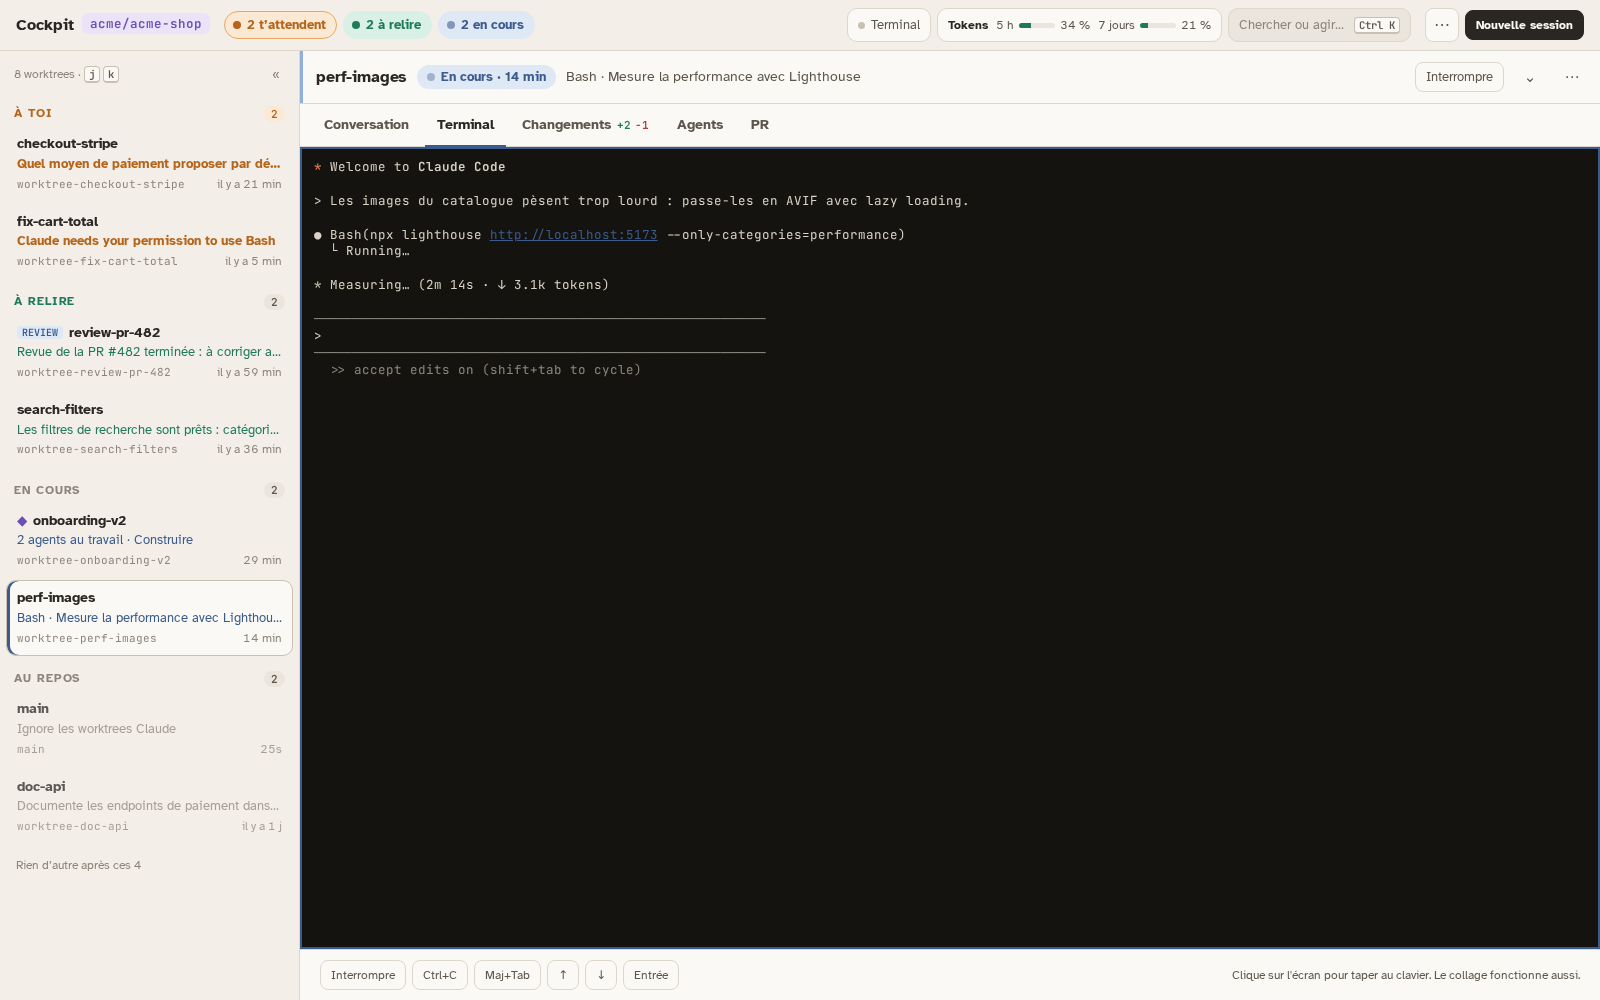
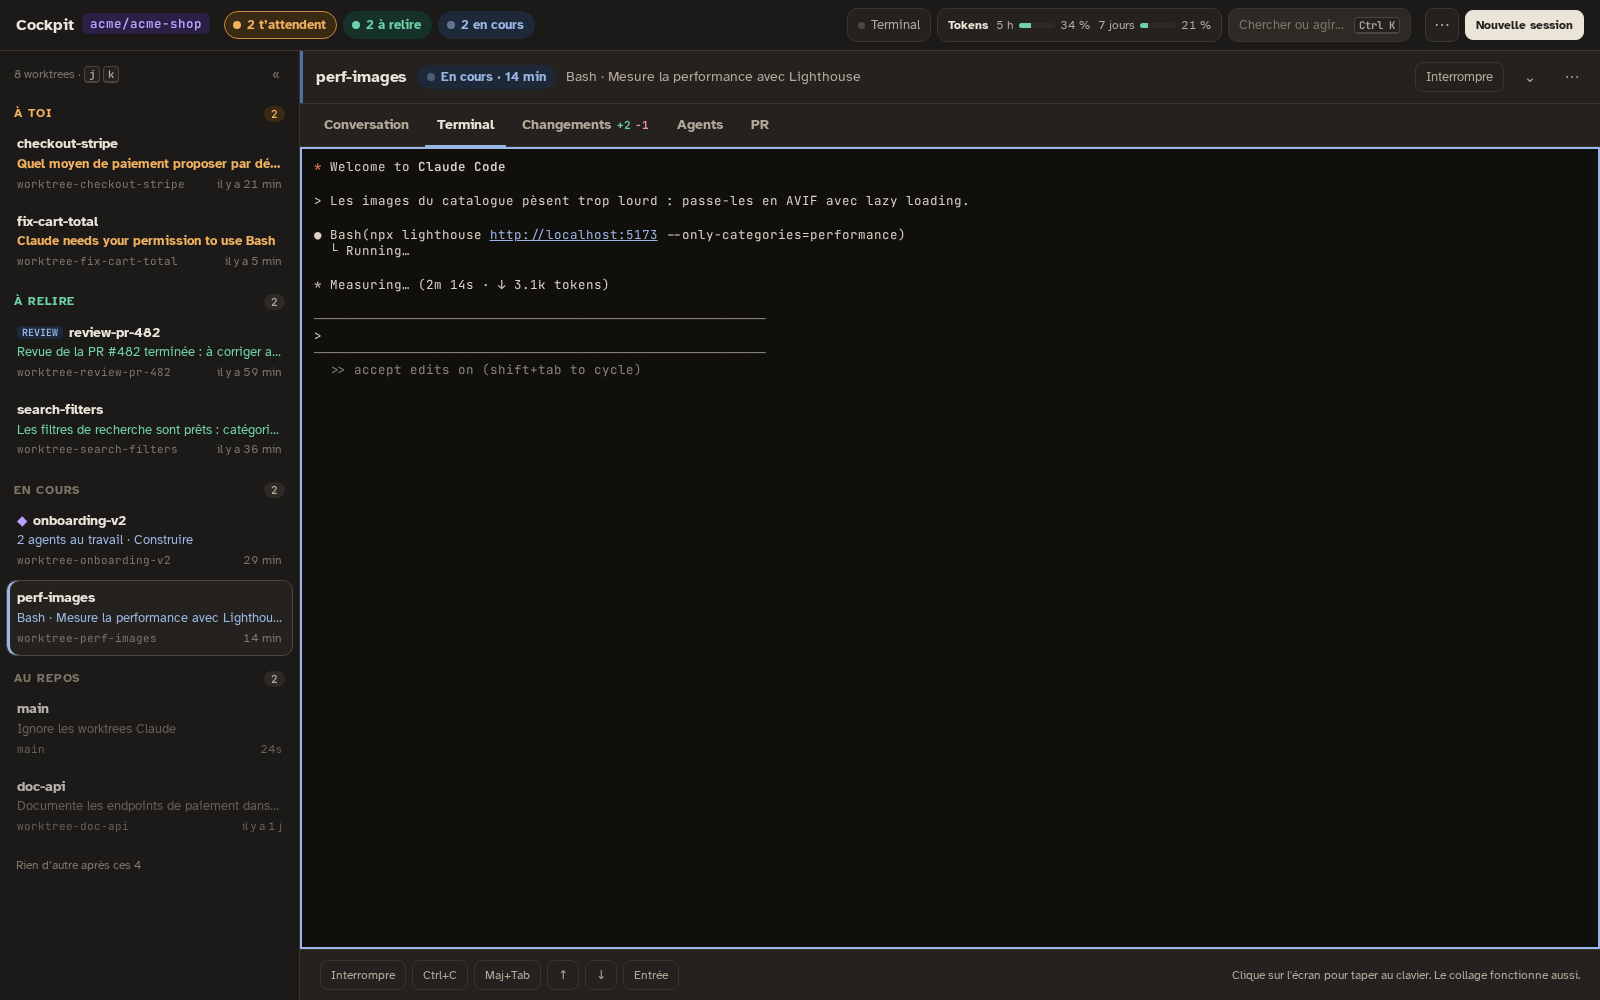
One send in the composer, routed like the CLI; dark screenshots
- The composer has a single "Envoyer": the message reaches the session at once and Claude takes it
  into account during its turn; it waits while Claude asks a question or a permission; a long message
  sent to a busy session is read by Haiku against the current task, and a clearly independent task
  starts a parallel session in the same worktree (server/core/routing.js, POST /api/message).
- The "En parallèle" button, "Mettre en file" and the header's "Nouvelle session ici" are gone.
- Guided tour screenshots retaken in dark mode, the last one shows the light theme.

diff --git a/web/js/panel-chat.js b/web/js/panel-chat.js
@@ -13,9 +13,6 @@ function renderComposer(s) {
   const live = !!s?.live;
   $('composer-input').disabled = !live;
   $('composer-send').disabled = !live;
-  $('composer-parallel').disabled = !live || sendingParallel;
-  $('composer-parallel').hidden = !live;
-  $('composer-send').textContent = s?.status === 'working' ? 'Mettre en file' : 'Envoyer';
   $('queue-list').innerHTML = (s?.queue || []).map((q) => `<div class="queue-item"><span title="${esc(q.text)}">⏳ En file : ${esc(q.text)}</span><button data-dequeue="${esc(q.id)}" title="Retirer de la file">✕</button></div>`).join('');
   const parallel = currentWt() ? liveSessions(currentWt()).length : 0;
   if (live && parallel > 1) $('composer-note').textContent = `${parallel} sessions Claude travaillent dans ce worktree : évite qu'elles modifient les mêmes fichiers.`;
@@ -96,28 +93,6 @@ async function setSetting(key, value) {
   toast(queue ? `Changement de ${setting.name} mis en file : il part à la fin du tour.` : setting.done);
 }
 
-let sendingParallel = false;
-
-async function sendParallel() {
-  if (sendingParallel) return;
-  const input = $('composer-input');
-  const text = input.value.trim();
-  const wt = currentWt();
-  if (!text || !wt) return;
-  hideSuggest();
-  sendingParallel = true;
-  $('composer-parallel').disabled = true;
-  const result = await post('/api/start', { worktree: wt.name, prompt: text });
-  sendingParallel = false;
-  $('composer-parallel').disabled = false;
-  if (!result.ok) { toast(result.data.error || 'Lancement impossible.', 'error'); return; }
-  input.value = '';
-  autosizeComposer();
-  pendingParallel = { path: wt.path, known: new Set(wt.sessions.map((s) => s.sessionId)), at: Date.now() };
-  toast('Session parallèle lancée dans ce worktree.');
-  setTimeout(refresh, 2500);
-}
-
 async function loadChat(force) {
   const box = $('chat');
   if (String(chatSession || '').startsWith('codex-screen:')) {
@@ -153,19 +128,31 @@ async function loadChat(force) {
   if (nearBottom || force) box.scrollTop = box.scrollHeight;
 }
 
+// One send, like the CLI: the server delivers the message to the session (taken into account during its
+// turn), holds it while Claude waits on a question, or starts a parallel session for an independent task.
+const SENT_NOTE = {
+  queued: 'Claude attend ta réponse à sa question : ton message part juste après.',
+  parallel: 'Tâche indépendante : lancée dans une nouvelle session de ce worktree.',
+};
+
 async function sendMessage() {
   const input = $('composer-input');
   const text = input.value.trim();
+  const wt = currentWt();
   if (!text || !chatSession) return;
   hideSuggest();
-  $('composer-send').disabled = true;
-  const s = currentSession();
-  const queue = s?.status === 'working';
-  const result = await post(queue ? '/api/queue' : '/api/send', { target: chatSession, text });
-  $('composer-send').disabled = false;
-  if (!result.ok) { toast(result.data.error || 'Envoi impossible.', 'error'); return; }
   input.value = '';
   autosizeComposer();
-  if (queue) toast('Message mis en file : il part dès que Claude a fini son tour.');
-  setTimeout(() => { loadChat(true); refresh(); }, 900);
+  const known = new Set((wt?.sessions || []).map((s) => s.sessionId));
+  const result = await post('/api/message', { target: chatSession, text });
+  if (!result.ok) {
+    if (!input.value.trim()) { input.value = text; autosizeComposer(); }
+    toast(result.data.error || 'Envoi impossible.', 'error');
+    return;
+  }
+  const { route, reason, during } = result.data;
+  if (route === 'parallel' && wt) pendingParallel = { path: wt.path, known, at: Date.now() };
+  const note = route === 'session' ? (during ? 'Envoyé : Claude en tient compte pendant son tour.' : null) : SENT_NOTE[route];
+  if (note) toast(reason && route === 'parallel' ? `${note} (${reason})` : note);
+  setTimeout(() => { loadChat(true); refresh(); }, route === 'parallel' ? 2500 : 900);
 }

diff --git a/server/features/routing.js b/server/features/routing.js
@@ -1,0 +1,53 @@
+const { execFile } = require('node:child_process');
+const { CLAUDE_BIN } = require('../config');
+const { readSession } = require('../io/store');
+const { paneOf, withClaudeStatus, ownerOf } = require('../core/sessions');
+const core = require('../core/routing');
+const { listWorktrees, worktreeName, livePanes } = require('./worktrees');
+const { enqueue, sendToSession } = require('./queue');
+const { startSession } = require('./sessions');
+
+const DECIDE_TIMEOUT_MS = 12000;
+
+// A small model reads the message against what the session is doing. Any failure keeps it in the session.
+function decide(session, message) {
+  const args = ['-p', '--model', 'haiku', '--no-session-persistence', '--tools', '', '--strict-mcp-config', '--output-format', 'json'];
+  return new Promise((resolve) => {
+    const child = execFile(CLAUDE_BIN, args, { timeout: DECIDE_TIMEOUT_MS, maxBuffer: 4 * 1024 * 1024, env: { ...process.env, COCKPIT_HIDDEN: '1' } }, (error, stdout) => {
+      let result = null;
+      try {
+        const parsed = JSON.parse(stdout);
+        result = (Array.isArray(parsed) ? parsed.findLast((e) => e.type === 'result') : parsed)?.result;
+      } catch {}
+      resolve(result ? core.parseRoute(result) : { route: 'session', reason: null });
+    });
+    child.stdin.end(core.routePrompt({ task: session.lastPrompt || session.task, lastAssistant: session.lastAssistant, actions: session.actions, message }));
+  });
+}
+
+// The composer's single send: to the session (taken into account during its turn, like the CLI), held
+// until a pending question or permission is answered, or to a new session in the same worktree when the
+// message is an independent task.
+async function sendMessage({ target, text }) {
+  const message = String(text || '').trim();
+  const raw = readSession(String(target || ''));
+  if (!raw || !message) return { error: 'Session ou message manquant.' };
+  const panes = await livePanes();
+  if (!paneOf(raw, panes)) return { error: 'Cette session ne tourne pas dans tmux, le cockpit ne peut pas lui écrire.' };
+  const session = withClaudeStatus(raw, panes);
+  const quick = core.quickRoute(session.status, message);
+  if (quick === 'queue') {
+    enqueue(session.sessionId, message);
+    return { route: 'queued' };
+  }
+  const decision = quick === 'session' ? { route: 'session', reason: null } : await decide(session, message);
+  if (decision.route === 'parallel') {
+    const owner = ownerOf(session.cwd, await listWorktrees());
+    const started = owner ? await startSession({ worktree: worktreeName(owner.path), prompt: message }) : { error: 'Worktree introuvable.' };
+    if (!started.error) return { route: 'parallel', reason: decision.reason, session: started.session };
+  }
+  if (!(await sendToSession(session.sessionId, message))) return { error: 'Cette session ne tourne pas dans tmux, le cockpit ne peut pas lui écrire.' };
+  return { route: 'session', reason: decision.reason, during: session.status === 'working' };
+}
+
+module.exports = { sendMessage };

diff --git a/server/core/routing.js b/server/core/routing.js
@@ -1,0 +1,52 @@
+// Where a message typed in the composer goes, without I/O. Like the CLI, a message always reaches the
+// session: while Claude works it is taken into account during the turn. Only a clearly independent task,
+// sent while the session is busy, starts a parallel session in the same worktree instead.
+
+const SHORT_WORDS = 8;
+const FOLLOW_UP = /^(stop|arr[êe]te|attends?|non\b|oui\b|ok\b|d'accord|aussi|et\b|plut[ôo]t|en fait|mais|pas\b|n'oublie|ajoute aussi|au fait|merci|parfait|continue|vas-y|go\b)/i;
+
+const clip = (text, max) => {
+  const value = String(text || '').replace(/\s+/g, ' ').trim();
+  return value.length > max ? `${value.slice(0, max - 1)}…` : value;
+};
+
+// What to do before asking a model: 'queue' (Claude waits on a question or a permission: typing would
+// answer it), 'session' (the session is free, or the message is obviously about the current work) or
+// null (the session is busy and the message may be a new task: ask).
+function quickRoute(status, message) {
+  if (status === 'needs_input') return 'queue';
+  if (status !== 'working') return 'session';
+  const text = String(message || '').trim();
+  if (text.startsWith('/') || FOLLOW_UP.test(text) || text.split(/\s+/).length <= SHORT_WORDS) return 'session';
+  return null;
+}
+
+function routePrompt({ task, lastAssistant, actions, message }) {
+  const recent = (actions || []).slice(0, 5).map((a) => `- ${a.tool}: ${clip(a.detail, 120)}`).join('\n') || '- (aucune)';
+  return [
+    'A Claude Code session is working on a task. The user just typed a new message while it works.',
+    'Decide whether the message belongs to that session (a follow-up, a correction, a precision, a question about the work, anything that needs its context) or is an independent new task that another session could do in parallel without the current context.',
+    'When in doubt, choose "session".',
+    '',
+    `Current task: ${clip(task, 600) || '(unknown)'}`,
+    `Last message from Claude: ${clip(lastAssistant, 400) || '(none)'}`,
+    `Recent actions:\n${recent}`,
+    '',
+    `New message: ${clip(message, 1500)}`,
+    '',
+    'Answer with one line of JSON only: {"route":"session"|"parallel","reason":"<short reason in French, 12 words max>"}',
+  ].join('\n');
+}
+
+// The model's answer → { route, reason }; anything unclear stays in the session.
+function parseRoute(text) {
+  const match = String(text || '').match(/\{[\s\S]*?\}/);
+  try {
+    const parsed = JSON.parse(match ? match[0] : '');
+    return { route: parsed.route === 'parallel' ? 'parallel' : 'session', reason: clip(parsed.reason, 140) || null };
+  } catch {
+    return { route: 'session', reason: null };
+  }
+}
+
+module.exports = { quickRoute, routePrompt, parseRoute };

diff --git a/test/server-routing.test.js b/test/server-routing.test.js
@@ -1,0 +1,28 @@
+const test = require('node:test');
+const assert = require('node:assert');
+const { quickRoute, routePrompt, parseRoute } = require('../server/core/routing');
+
+test('quickRoute holds a message while Claude waits on a question, sends it when the session is free', () => {
+  assert.strictEqual(quickRoute('needs_input', 'Refais tout le module de paiement avec Stripe et ajoute les tests'), 'queue');
+  assert.strictEqual(quickRoute('done', 'Refais tout le module de paiement avec Stripe et ajoute les tests'), 'session');
+  assert.strictEqual(quickRoute('idle', 'Nouvelle tâche complètement différente sur la documentation de l’API'), 'session');
+});
+
+test('quickRoute keeps short messages, follow-ups and commands in a busy session, and asks for the rest', () => {
+  assert.strictEqual(quickRoute('working', 'ajoute aussi un test'), 'session');
+  assert.strictEqual(quickRoute('working', 'Stop, tu pars dans la mauvaise direction avec ce refactor du panier complet'), 'session');
+  assert.strictEqual(quickRoute('working', '/compact garde seulement les décisions importantes de la session en cours'), 'session');
+  assert.strictEqual(quickRoute('working', 'Écris la documentation des endpoints de remboursement dans docs/api.md avec des exemples'), null);
+});
+
+test('routePrompt carries the task, the recent actions and the message', () => {
+  const prompt = routePrompt({ task: 'Ajoute Stripe', lastAssistant: 'Je branche le SDK', actions: [{ tool: 'Edit', detail: 'src/pay.ts' }], message: 'Documente l’API' });
+  for (const part of ['Current task: Ajoute Stripe', 'Last message from Claude: Je branche le SDK', '- Edit: src/pay.ts', 'New message: Documente l’API', '"session"|"parallel"']) assert.ok(prompt.includes(part), part);
+});
+
+test('parseRoute reads the JSON answer and keeps anything unclear in the session', () => {
+  assert.deepStrictEqual(parseRoute('{"route":"parallel","reason":"Tâche sans lien"}'), { route: 'parallel', reason: 'Tâche sans lien' });
+  assert.deepStrictEqual(parseRoute('Voici : {"route":"session"}'), { route: 'session', reason: null });
+  assert.deepStrictEqual(parseRoute('parallel'), { route: 'session', reason: null });
+  assert.deepStrictEqual(parseRoute('{"route":"other"}'), { route: 'session', reason: null });
+});

diff --git a/web/js/session-head.js b/web/js/session-head.js
@@ -38,7 +38,6 @@ function headMenu(wt, s) {
     if (wt.pr) item('data-head-tab="checks"', `PR #${wt.pr.number}`, 'checks, reviews, CI');
   }
   if (s) item(`data-head-read="${esc(s.sessionId)}"`, 'Lire la dernière réponse', '', '');
-  if (s?.live) item('data-head-parallel', 'Nouvelle session ici', 'en parallèle, même worktree');
   if (s) item(`data-head-delegate="${esc(s.sessionId)}"`, 'Déléguer une sous-tâche', 'nouvelle session liée à celle-ci');
   item(`data-head-pin="${esc(wt.path)}"`, pins.has(wt.path) ? 'Désépingler' : 'Épingler en tête de file');
   if (state.app && canServe(wt) && wt.headSha && state.app?.serving?.name !== wt.name) item(`data-serve="${esc(wt.path)}"`, 'Servir l’app depuis ce worktree', 'checkout du dernier commit');
@@ -104,7 +103,6 @@ $('panel-head').addEventListener('click', (e) => {
   if (tabBtn) { closeMenu(); document.querySelector(`#tabs [data-tab="${tabBtn.dataset.headTab}"]`)?.click(); if (tabBtn.dataset.headTab === 'chat') $('composer-input').focus(); return; }
   const read = t.closest('[data-head-read]');
   if (read) { closeMenu(); renderPanel(); openReaderFor(read.dataset.headRead, currentWt()?.name); return; }
-  if (t.closest('[data-head-parallel]')) { closeMenu(); document.querySelector('#tabs [data-tab="chat"]')?.click(); $('composer-input').focus(); toast('Écris le message puis « En parallèle ».'); return; }
   const delegateBtn = t.closest('[data-head-delegate]');
   if (delegateBtn) { closeMenu(); renderPanel(); openNewSession({ parent: currentWt()?.sessions.find((x) => x.sessionId === delegateBtn.dataset.headDelegate) || null }); return; }
   const pin = t.closest('[data-head-pin]');

diff --git a/server/http.js b/server/http.js
@@ -27,6 +27,7 @@ const orchestration = require('./features/orchestration');
 const { providersInfo } = require('./features/providers');
 const mcp = require('./features/mcp');
 const { answerAsk } = require('./features/asks');
+const { sendMessage } = require('./features/routing');
 const modelMatrix = require('./features/matrix');
 const connections = require('./features/connections');
 const codexScreens = require('./features/codex-screens');
@@ -218,6 +219,10 @@ async function handleWrite(req, res, route) {
     const result = await writeActions[route](body);
     invalidateSnapshot();
     return json(res, result?.error ? 400 : 200, result);
+  }
+  if (route === '/api/message') {
+    const result = await sendMessage(body);
+    return json(res, result.error ? 409 : 200, result);
   }
   if (route === '/api/queue') {
     const session = readSession(String(body.target || ''));

diff --git a/web/js/cards.js b/web/js/cards.js
@@ -269,11 +269,11 @@ $('grid').addEventListener('submit', async (e) => {
   const text = input.value.trim();
   if (!text) return;
   input.disabled = true;
-  const result = await post('/api/deliver', { target: form.dataset.quick, text });
+  const result = await post('/api/message', { target: form.dataset.quick, text });
   input.disabled = false;
   if (!result.ok) { toast(result.data.error || 'Envoi impossible.', 'error'); return; }
   input.value = '';
-  toast(result.data.outcome === 'queued' ? 'Message mis en file.' : 'Message envoyé à Claude.');
+  toast(SENT_NOTE[result.data.route] || 'Message envoyé à Claude.');
   setTimeout(refresh, 900);
 });
 

diff --git a/index.html b/index.html
@@ -93,7 +93,6 @@
         <textarea id="composer-input" placeholder="Écris à Claude… (Entrée pour envoyer, Maj+Entrée pour aller à la ligne)"></textarea>
         <div class="composer-buttons">
           <button class="btn primary" id="composer-send">Envoyer</button>
-          <button class="btn" id="composer-parallel" title="Lance une nouvelle session Claude dans ce worktree avec ce message, sans attendre la session en cours">En parallèle</button>
         </div>
       </div>
       <div class="composer-foot">

diff --git a/web/js/panel.js b/web/js/panel.js
@@ -140,7 +140,6 @@ $('panel').addEventListener('click', async (e) => {
     return;
   }
   if (e.target.id === 'composer-send') { sendMessage(); return; }
-  if (e.target.id === 'composer-parallel') { sendParallel(); return; }
   if (e.target.id === 'resume-btn') {
     const result = await post('/api/resume', { session: chatSession });
     toast(result.ok ? 'Session relancée dans tmux. Elle sera pilotable dans quelques secondes.' : result.data.error || 'Reprise impossible.', result.ok ? '' : 'error');

diff --git a/server/features/queue.js b/server/features/queue.js
@@ -88,4 +88,4 @@ async function flushQueues(snap, onSent) {
   }
 }
 
-module.exports = { loadQueues, enqueue, enqueueMerged, dequeue, deliver, broadcast, flushQueues };
+module.exports = { loadQueues, sendToSession, enqueue, enqueueMerged, dequeue, deliver, broadcast, flushQueues };

diff --git a/docs/visite-guidee.md b/docs/visite-guidee.md
@@ -41,6 +41,8 @@ Les pastilles en haut sont cliquables, `j` / `k` parcourent la file au clavier.
 
 > « Autoriser, Toujours autoriser, Refuser : la touche `a` suffit. Claude repart immédiatement et la session passe en *En cours*. »
 
+**Écrire à Claude pendant qu'il travaille.** Comme dans le terminal, on écrit quand on veut et on appuie sur Entrée. Claude tient compte du message pendant son tour, sans attendre la fin. Si le message est une tâche sans rapport (« Autre chose : documente l'API de remboursement »), le cockpit le détecte et lance une session en parallèle dans le même worktree. Il n'y a qu'un seul bouton, et le cockpit choisit la bonne voie.
+
 ---
 
 ## 3. Relire ce que Claude a fait
@@ -133,9 +135,9 @@ Pour chaque type de tâche (explorer, implémenter, déboguer, relire…), la ma
 
 ## 10. Pour finir
 
-Le thème sombre, le mode focus (`f` masque la file), et l'ancienne vue en cartes restent disponibles dans le menu ⋯.
+Le thème clair (ou celui du système), le mode focus (`f` masque la file) et l'ancienne vue en cartes sont dans le menu ⋯.
 
-![Le thème sombre](screenshots/13-sombre.png)
+![Le thème clair](screenshots/13-clair.png)
 
 **Le message à retenir :** on lance autant de sessions qu'on veut, et le cockpit dit à chaque instant laquelle a besoin de nous. On répond, on relit, on délègue, sans jamais chercher le bon terminal.
 

diff --git a/README.md b/README.md
@@ -37,7 +37,7 @@ When Claude asks a question (`AskUserQuestion`) in a session launched or resumed
 
 ### Steering several sessions
 
-- **Message queue.** While Claude works, the composer becomes "Mettre en file": queued messages leave when the turn ends.
+- **One send, routed for you.** The composer has a single "Envoyer", like the CLI: the message always reaches the session, and while Claude works it is taken into account during the turn (Claude Code queues it itself). While Claude waits on a question or a permission, the message is held and leaves right after the answer. When a long message is sent to a busy session, a small model (`claude -p --model haiku`, about 2 s, `server/core/routing.js`) reads it against the current task: a clearly independent task starts a new session in the same worktree instead, and a toast says why. Short messages, follow-ups and slash commands skip that check.
 - **Broadcast.** "Outils → Écrire à plusieurs sessions" selects cards and sends one message to all of them (busy ones get it queued).
 - **Variants.** "Nouvelle session" can start N worktrees with the same prompt to compare approaches.
 - **Delegation.** "Déléguer" on a Claude message starts a linked session pre-filled with that context. Cards show the parent and child links, and the parent can be told when the child finishes a turn.
